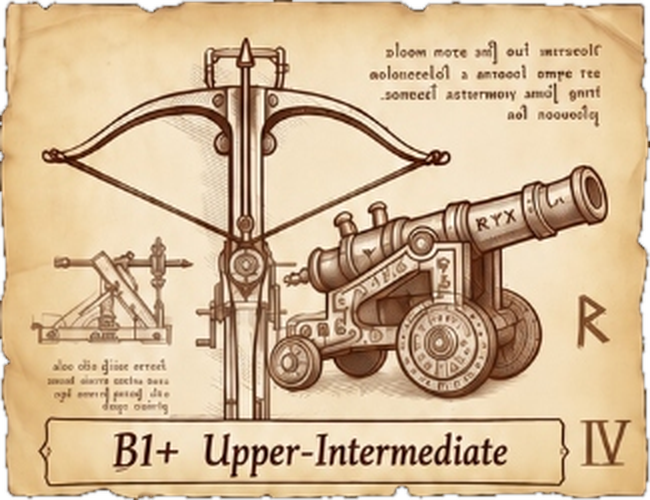
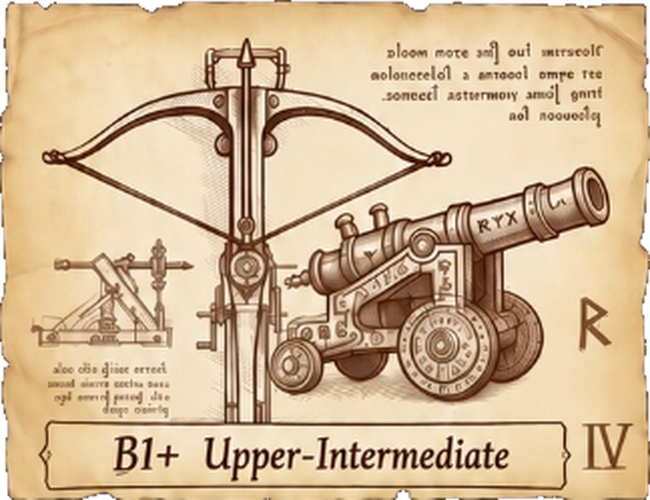
Eliminate all detached sliver artifacts from parchment cards and ensure uniform grid spacing

diff --git a/assets/css/main.css b/assets/css/main.css
@@ -331,8 +331,10 @@ html, body {
 .level-grid {
   display: grid;
   grid-template-columns: repeat(2, 1fr);
-  gap: 12px;
-  padding: 6px 0 20px 0;
+  gap: 14px;
+  row-gap: 14px;
+  column-gap: 14px;
+  padding: 8px 0 24px 0;
 }
 
 .level-card {
@@ -349,23 +351,23 @@ html, body {
   padding: 0;
   box-sizing: border-box;
   transition: transform 0.18s cubic-bezier(0.34, 1.56, 0.64, 1), filter 0.18s ease;
-  filter: drop-shadow(0 4px 10px rgba(0, 0, 0, 0.25));
+  filter: drop-shadow(0 3px 8px rgba(0, 0, 0, 0.18));
 }
 
 .level-card:hover {
-  transform: translateY(-4px) scale(1.03);
-  filter: drop-shadow(0 8px 18px rgba(0, 0, 0, 0.35)) brightness(1.04);
+  transform: translateY(-3px) scale(1.02);
+  filter: drop-shadow(0 6px 14px rgba(0, 0, 0, 0.28)) brightness(1.03);
 }
 
 .level-card:active {
   transform: translateY(1px) scale(0.98);
-  filter: drop-shadow(0 2px 6px rgba(0, 0, 0, 0.2)) brightness(0.97);
+  filter: drop-shadow(0 2px 4px rgba(0, 0, 0, 0.15)) brightness(0.97);
 }
 
 .level-card-img {
   width: 100%;
   height: 100%;
-  object-fit: contain;
+  object-fit: fill;
   display: block;
 }
 

diff --git a/frontend/assets/css/main.css b/frontend/assets/css/main.css
@@ -331,8 +331,10 @@ html, body {
 .level-grid {
   display: grid;
   grid-template-columns: repeat(2, 1fr);
-  gap: 12px;
-  padding: 6px 0 20px 0;
+  gap: 14px;
+  row-gap: 14px;
+  column-gap: 14px;
+  padding: 8px 0 24px 0;
 }
 
 .level-card {
@@ -349,23 +351,23 @@ html, body {
   padding: 0;
   box-sizing: border-box;
   transition: transform 0.18s cubic-bezier(0.34, 1.56, 0.64, 1), filter 0.18s ease;
-  filter: drop-shadow(0 4px 10px rgba(0, 0, 0, 0.25));
+  filter: drop-shadow(0 3px 8px rgba(0, 0, 0, 0.18));
 }
 
 .level-card:hover {
-  transform: translateY(-4px) scale(1.03);
-  filter: drop-shadow(0 8px 18px rgba(0, 0, 0, 0.35)) brightness(1.04);
+  transform: translateY(-3px) scale(1.02);
+  filter: drop-shadow(0 6px 14px rgba(0, 0, 0, 0.28)) brightness(1.03);
 }
 
 .level-card:active {
   transform: translateY(1px) scale(0.98);
-  filter: drop-shadow(0 2px 6px rgba(0, 0, 0, 0.2)) brightness(0.97);
+  filter: drop-shadow(0 2px 4px rgba(0, 0, 0, 0.15)) brightness(0.97);
 }
 
 .level-card-img {
   width: 100%;
   height: 100%;
-  object-fit: contain;
+  object-fit: fill;
   display: block;
 }
 

diff --git a/scripts/crop_cards.py b/scripts/crop_cards.py
@@ -6,44 +6,45 @@ from collections import deque
 
 sys.stdout = io.TextIOWrapper(sys.stdout.buffer, encoding='utf-8')
 
-def process_and_cut_cards():
+def clean_and_extract_cards():
     src_path = r'C:/Users/user/.gemini/antigravity/brain/50a1383d-6d8f-434e-99c6-90c7eea9b4d5/.user_uploaded/media_1790950358626.jpg'
     img = Image.open(src_path).convert('RGB')
     src_arr = np.array(img)
     
-    # Precise bounding regions in full image (x1, y1, x2, y2)
-    # 4 rows x 2 cols
+    # Strictly isolated bounding regions for each card cell
+    # No overlap with neighbor rows or columns
     cards_def = [
-        ('card_a1',        (10, 24, 340, 288)),
-        ('card_a2',        (350, 24, 682, 288)),
-        ('card_b1',        (10, 300, 340, 557)),
-        ('card_b1_b2',     (350, 302, 682, 557)),
-        ('card_b2',        (10, 552, 340, 797)),
-        ('card_c1',        (350, 552, 682, 797)),
-        ('card_shorts',    (10, 792, 340, 1024)),
-        ('card_favorites', (350, 792, 682, 1024))
+        # Row 0 (A1, A2) - Divider below is y=284..304
+        ('card_a1',        (12, 26, 338, 284)),
+        ('card_a2',        (354, 26, 679, 284)),
+        
+        # Row 1 (B1, B1+) - Divider above is y=284..304, divider below is y=554..567
+        ('card_b1',        (12, 304, 338, 554)),
+        ('card_b1_b2',     (354, 304, 679, 554)),
+        
+        # Row 2 (B2, C1) - Divider above is y=554..567, divider below is y=794..808
+        ('card_b2',        (12, 567, 338, 794)),
+        ('card_c1',        (354, 567, 679, 794)),
+        
+        # Row 3 (Shorts, Favorites) - Divider above is y=794..808
+        ('card_shorts',    (12, 808, 338, 1024)),
+        ('card_favorites', (354, 808, 679, 1024))
     ]
     
     out_dir = 'frontend/assets/cards'
     os.makedirs(out_dir, exist_ok=True)
     
-    # Target uniform dimensions for all card images
     TARGET_WIDTH = 650
     TARGET_HEIGHT = 500
-    
-    processed_results = []
     
     for name, (x1, y1, x2, y2) in cards_def:
         crop_rgb = src_arr[y1:y2, x1:x2].astype(np.float32)
         h, w = crop_rgb.shape[:2]
         
-        # Calculate brightness and wood probability
         brightness = 0.299 * crop_rgb[..., 0] + 0.587 * crop_rgb[..., 1] + 0.114 * crop_rgb[..., 2]
         
-        # Wood is dark / brown
-        # Paper is bright / warm parchment
-        # A pixel is definitely wood if brightness < 70 or (R < 80 and G < 55 and B < 45)
-        is_wood = (brightness < 68) | ((crop_rgb[..., 0] < 82) & (crop_rgb[..., 1] < 58) & (crop_rgb[..., 2] < 46))
+        # Wood background detection
+        is_wood = (brightness < 70) | ((crop_rgb[..., 0] < 85) & (crop_rgb[..., 1] < 60) & (crop_rgb[..., 2] < 50))
         
         # Flood fill from image boundary to find exterior wood
         bg_mask = np.zeros((h, w), dtype=bool)
@@ -72,48 +73,67 @@ def process_and_cut_cards():
                         bg_mask[ny, nx] = True
                         q.append((ny, nx))
                         
-        # The paper region is ~bg_mask
         paper_mask = ~bg_mask
         
-        # Build RGBA array
+        # Extract connected components of paper_mask to keep ONLY the largest component (the main parchment card)
+        # and discard any small isolated debris
+        labeled = np.zeros((h, w), dtype=np.int32)
+        current_label = 0
+        component_sizes = {}
+        
+        for r in range(h):
+            for c in range(w):
+                if paper_mask[r, c] and labeled[r, c] == 0:
+                    current_label += 1
+                    comp_q = deque([(r, c)])
+                    labeled[r, c] = current_label
+                    size = 0
+                    while comp_q:
+                        cr, cc = comp_q.popleft()
+                        size += 1
+                        for nr, nc in ((cr+1, cc), (cr-1, cc), (cr, cc+1), (cr, cc-1)):
+                            if 0 <= nr < h and 0 <= nc < w:
+                                if paper_mask[nr, nc] and labeled[nr, nc] == 0:
+                                    labeled[nr, nc] = current_label
+                                    comp_q.append((nr, nc))
+                    component_sizes[current_label] = size
+                    
+        if component_sizes:
+            largest_label = max(component_sizes, key=component_sizes.get)
+            clean_paper_mask = (labeled == largest_label)
+        else:
+            clean_paper_mask = paper_mask
+            
+        # Build clean RGBA image
         rgba = np.zeros((h, w, 4), dtype=np.uint8)
         rgba[..., :3] = src_arr[y1:y2, x1:x2]
-        rgba[..., 3] = np.where(paper_mask, 255, 0).astype(np.uint8)
+        rgba[..., 3] = np.where(clean_paper_mask, 255, 0).astype(np.uint8)
         
-        # Find tight bounding box of paper
-        ys, xs = np.where(paper_mask)
+        # Tight crop to clean paper
+        ys, xs = np.where(clean_paper_mask)
         if len(ys) > 0 and len(xs) > 0:
             top, bottom = ys.min(), ys.max()
             left, right = xs.min(), xs.max()
         else:
             top, bottom, left, right = 0, h-1, 0, w-1
             
-        tight_crop = Image.fromarray(rgba).crop((left, top, right + 1, bottom + 1))
+        tight_card = Image.fromarray(rgba).crop((left, top, right + 1, bottom + 1))
         
-        # Soft anti-aliased edge: smooth alpha slightly
-        alpha_img = tight_crop.getchannel('A')
-        # Apply slight blur to alpha for smooth edge blending
-        smooth_alpha = alpha_img.filter(ImageFilter.GaussianBlur(radius=0.7))
-        # Ensure interior is 100% solid
+        # Smooth anti-aliased edge
+        alpha_img = tight_card.getchannel('A')
+        smooth_alpha = alpha_img.filter(ImageFilter.GaussianBlur(radius=0.6))
         smooth_alpha_arr = np.array(smooth_alpha)
-        smooth_alpha_arr = np.where(smooth_alpha_arr > 180, 255, smooth_alpha_arr)
-        tight_crop.putalpha(Image.fromarray(smooth_alpha_arr))
+        smooth_alpha_arr = np.where(smooth_alpha_arr > 160, 255, smooth_alpha_arr)
+        tight_card.putalpha(Image.fromarray(smooth_alpha_arr))
         
-        # Resize uniformly to identical TARGET_WIDTH x TARGET_HEIGHT
-        resized_card = tight_crop.resize((TARGET_WIDTH, TARGET_HEIGHT), Image.Resampling.LANCZOS)
+        # Resize uniformly to EXACT TARGET_WIDTH x TARGET_HEIGHT
+        final_img = tight_card.resize((TARGET_WIDTH, TARGET_HEIGHT), Image.Resampling.LANCZOS)
         
         out_path = os.path.join(out_dir, f"{name}.png")
-        resized_card.save(out_path, 'PNG', optimize=True)
+        final_img.save(out_path, 'PNG', optimize=True)
+        print(f"✓ {name:15s}: paper tight = {right-left+1}x{bottom-top+1} -> uniform = {final_img.size}")
         
-        processed_results.append({
-            'name': name,
-            'orig_size': (right - left + 1, bottom - top + 1),
-            'final_size': resized_card.size,
-            'path': out_path
-        })
-        print(f"✓ {name:15s}: raw paper size={right-left+1}x{bottom-top+1} -> final uniform size={resized_card.size}")
-        
-    print(f"\nAll 8 cards generated with identical height ({TARGET_HEIGHT}px) and width ({TARGET_WIDTH}px).")
+    print(f"\nAll 8 cards cleaned of all artifacts and normalized to {TARGET_WIDTH}x{TARGET_HEIGHT}px.")
 
 if __name__ == '__main__':
-    process_and_cut_cards()
+    clean_and_extract_cards()
